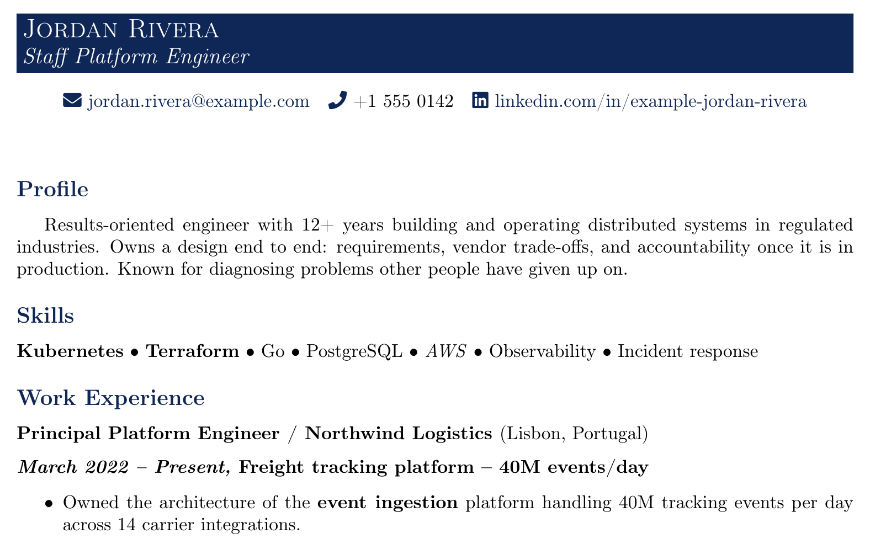
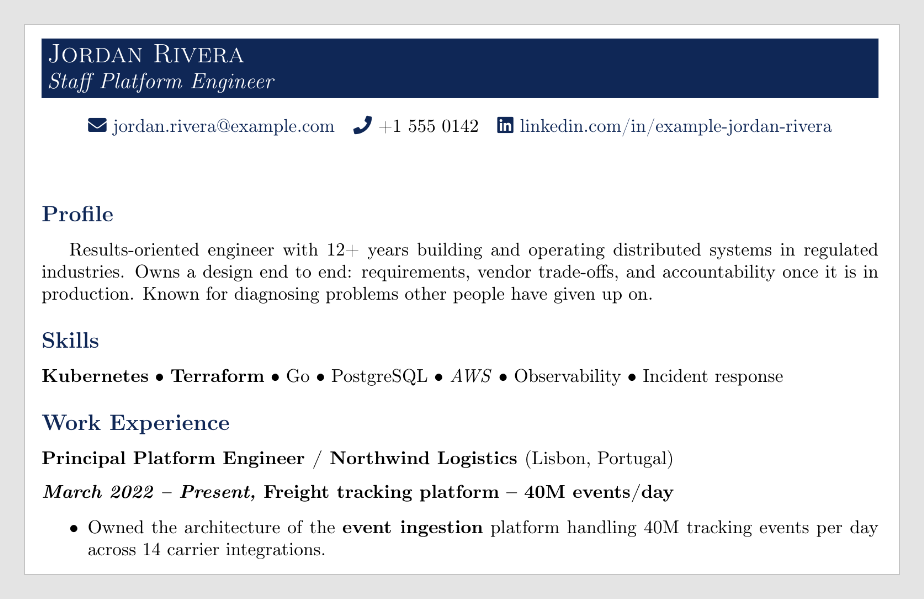
border around cv

diff --git a/README.md b/README.md
@@ -9,7 +9,9 @@ Turn a job description and your work experiences into a tailored, two-page TeX C
 Produces an honest CV that you can actually defend in a job interview. Though you can change the cv layout, the focus is on the CV content optimization for ATS.
 
 <div align="center">
-  <img src="doc/images/cv.png" alt="CV Preview">
+  <a href="examples/sample_cv.pdf">
+    <img src="doc/images/cv.png" alt="CV Preview">
+  </a>
 </div>
 
 Features:
